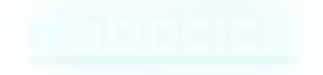
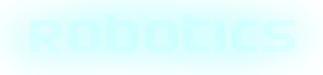
Added Header to pages1-5

Changed region(s): [[0.1238, 0.1867, 0.8359, 0.6933]]

diff --git a/index.html b/index.html
@@ -9,27 +9,38 @@
 	</head>
 	<body>
 		<section id="masthead">
-			<a href="http://maxwofford.com">
-				<img border="0" src="masthead.png" alt="Max Wofford">
+			<a href="index.html">
+				<img border="0" src="images/masthead.png" alt="Max Wofford" width="100%">
 			</a>
 			<p>
+				
 				<table width="60%">	
 					<tr>
 						<td>
-							<a href="page1.html" target="_top" onmouseover="document.sub_but.src=images\page1Over.png" onmouseout="document.sub_but."src="images/page1.png"><img src="images\page1.png" width="50%" height="12" border="0" alt="Page 1" name="sub_but"></a>
+							<a href="page1.html" >
+								<img width="50%" height="12" src=" images/page1.png " onmouseover="this.src=' images/page1Over.png '" onmouseout="this.src=' images/page1.png '" />
+							</a>
 					
 						</td>
 						<td>
-							<a href="page2.html" target="_top" onmouseover="document.sub_but.src=images\page2Over.png" onmouseout="document.sub_but."src="images/page2.png"><img src="images\page2.png" width="50%" height="12" border="0" alt="Page 2" name="sub_but"></a>
+							<a href="page2.html" >
+								<img width="50%" height="12" src=" images/page2.png " onmouseover="this.src=' images/page2Over.png '" onmouseout="this.src=' images/page2.png '" />
+							</a>
 						</td>
 						<td>
-							<a href="page1.html" target="_top" onmouseover="document.sub_but.src=images\page1Over.png" onmouseout="document.sub_but."src="images/page1.png"><img src="images\page1.png" width="50%" height="12" border="0" alt="Page 1" name="sub_but"></a>
+							<a href="page3.html" >
+								<img width="50%" height="12" src=" images/page3.png " onmouseover="this.src=' images/page3Over.png '" onmouseout="this.src=' images/page3.png '" />
+							</a>
 						</td>
 						<td>
-							<a href="page1.html" target="_top" onmouseover="document.sub_but."src="images\page1Over.png" onmouseout="document.sub_but."src="images/page1Over.png"><img src="images\page1.png" width="50%" height="12" border="0" alt="Move your mouse over me" name="sub_but"></a>	
+							<a href="page4.html" >
+								<img width="50%" height="12" src=" images/page4.png " onmouseover="this.src=' images/page4Over.png '" onmouseout="this.src=' images/page4.png '" />
+							</a>
 						</td>
 						<td>
-							<a href="page1.html" target="_top" onmouseover="document.sub_but."src="images\page1Over.png" onmouseout="document.sub_but."src="images/page1Over.png"><img src="images\page1.png" width="50%" height="12" border="0" alt="Move your mouse over me" name="sub_but"></a>	
+							<a href="page5.html" >
+								<img width="50%" height="12" src=" images/page5.png " onmouseover="this.src=' images/page5Over.png '" onmouseout="this.src=' images/page5.png '" />
+							</a>
 						</td>
 					<tr>
 				</table>
@@ -65,6 +76,7 @@
 
 				</p>
 				<p>
+					<img src="images\glyphicons_free\glyphicons\png\glyphicons_272_cake.png">
 					<a href= "http://glyphicons.com/">
 						GLYPHICONS
 					</a>

diff --git a/page2.html b/page2.html
@@ -6,6 +6,45 @@
 		</title>
 	</head>
 	<body>
+		<section id="masthead">
+			<a href="index.html">
+				<img border="0" src="images/masthead.png" alt="Max Wofford" width="100%">
+			</a>
+			<p>
+				
+				<table width="60%">	
+					<tr>
+						<td>
+							<a href="page1.html" >
+								<img width="50%" height="12" src=" images/page1.png " onmouseover="this.src=' images/page1Over.png '" onmouseout="this.src=' images/page1.png '" />
+							</a>
+					
+						</td>
+						<td>
+							<a href="page2.html" >
+								<img width="50%" height="12" src=" images/page2.png " onmouseover="this.src=' images/page2Over.png '" onmouseout="this.src=' images/page2.png '" />
+							</a>
+						</td>
+						<td>
+							<a href="page3.html" >
+								<img width="50%" height="12" src=" images/page3.png " onmouseover="this.src=' images/page3Over.png '" onmouseout="this.src=' images/page3.png '" />
+							</a>
+						</td>
+						<td>
+							<a href="page4.html" >
+								<img width="50%" height="12" src=" images/page4.png " onmouseover="this.src=' images/page4Over.png '" onmouseout="this.src=' images/page4.png '" />
+							</a>
+						</td>
+						<td>
+							<a href="page5.html" >
+								<img width="50%" height="12" src=" images/page5.png " onmouseover="this.src=' images/page5Over.png '" onmouseout="this.src=' images/page5.png '" />
+							</a>
+						</td>
+					<tr>
+				</table>
+			</p>
+			<HR WIDTH="50%" SIZE="3">
+		</section>
 
 		<h3 style="BORDER-RIGHT: #c00 1px solid; BORDER-TOP: #c00 1px solid; BORDER-LEFT: #c00 1px solid; BORDER-BOTTOM: #c00 1px solid" width="50%" class="middle">
 			Aerospace Engineering

diff --git a/page3.html b/page3.html
@@ -1,10 +1,49 @@
 <html>
 	<head>
+		<link rel="stylesheet" type="text/css" href="theme.css">
 		<title>
-		
+			Programming
 		</title>
 	</head>
 	<body >
-
+		<section id="masthead">
+			<a href="index.html">
+				<img border="0" src="images/masthead.png" alt="Max Wofford" width="100%">
+			</a>
+			<p>
+				
+				<table width="60%">	
+					<tr>
+						<td>
+							<a href="page1.html" >
+								<img width="50%" height="12" src=" images/page1.png " onmouseover="this.src=' images/page1Over.png '" onmouseout="this.src=' images/page1.png '" />
+							</a>
+					
+						</td>
+						<td>
+							<a href="page2.html" >
+								<img width="50%" height="12" src=" images/page2.png " onmouseover="this.src=' images/page2Over.png '" onmouseout="this.src=' images/page2.png '" />
+							</a>
+						</td>
+						<td>
+							<a href="page3.html" >
+								<img width="50%" height="12" src=" images/page3.png " onmouseover="this.src=' images/page3Over.png '" onmouseout="this.src=' images/page3.png '" />
+							</a>
+						</td>
+						<td>
+							<a href="page4.html" >
+								<img width="50%" height="12" src=" images/page4.png " onmouseover="this.src=' images/page4Over.png '" onmouseout="this.src=' images/page4.png '" />
+							</a>
+						</td>
+						<td>
+							<a href="page5.html" >
+								<img width="50%" height="12" src=" images/page5.png " onmouseover="this.src=' images/page5Over.png '" onmouseout="this.src=' images/page5.png '" />
+							</a>
+						</td>
+					<tr>
+				</table>
+			</p>
+			<HR WIDTH="50%" SIZE="3">
+		</section>
 	</body>
 </html>

diff --git a/page4.html b/page4.html
@@ -1,10 +1,49 @@
 <html>
 	<head>
+		<link rel="stylesheet" type="text/css" href="theme.css">
 		<title>
-		
+			Community
 		</title>
 	</head>
 	<body >
-
+		<section id="masthead">
+			<a href="index.html">
+				<img border="0" src="images/masthead.png" alt="Max Wofford" width="100%">
+			</a>
+			<p>
+				
+				<table width="60%">	
+					<tr>
+						<td>
+							<a href="page1.html" >
+								<img width="50%" height="12" src=" images/page1.png " onmouseover="this.src=' images/page1Over.png '" onmouseout="this.src=' images/page1.png '" />
+							</a>
+					
+						</td>
+						<td>
+							<a href="page2.html" >
+								<img width="50%" height="12" src=" images/page2.png " onmouseover="this.src=' images/page2Over.png '" onmouseout="this.src=' images/page2.png '" />
+							</a>
+						</td>
+						<td>
+							<a href="page3.html" >
+								<img width="50%" height="12" src=" images/page3.png " onmouseover="this.src=' images/page3Over.png '" onmouseout="this.src=' images/page3.png '" />
+							</a>
+						</td>
+						<td>
+							<a href="page4.html" >
+								<img width="50%" height="12" src=" images/page4.png " onmouseover="this.src=' images/page4Over.png '" onmouseout="this.src=' images/page4.png '" />
+							</a>
+						</td>
+						<td>
+							<a href="page5.html" >
+								<img width="50%" height="12" src=" images/page5.png " onmouseover="this.src=' images/page5Over.png '" onmouseout="this.src=' images/page5.png '" />
+							</a>
+						</td>
+					<tr>
+				</table>
+			</p>
+			<HR WIDTH="50%" SIZE="3">
+		</section>
 	</body>
 </html>

diff --git a/page1.html b/page1.html
@@ -1,10 +1,49 @@
 <html>
 	<head>
+		<link rel="stylesheet" type="text/css" href="theme.css">
 		<title>
-		
+		Robotics
 		</title>
 	</head>
 	<body >
-
+		<section id="masthead">
+			<a href="index.html">
+				<img border="0" src="images/masthead.png" alt="Max Wofford" width="100%">
+			</a>
+			<p>
+				
+				<table width="60%">	
+					<tr>
+						<td>
+							<a href="page1.html" >
+								<img width="50%" height="12" src=" images/page1.png " onmouseover="this.src=' images/page1Over.png '" onmouseout="this.src=' images/page1.png '" />
+							</a>
+					
+						</td>
+						<td>
+							<a href="page2.html" >
+								<img width="50%" height="12" src=" images/page2.png " onmouseover="this.src=' images/page2Over.png '" onmouseout="this.src=' images/page2.png '" />
+							</a>
+						</td>
+						<td>
+							<a href="page3.html" >
+								<img width="50%" height="12" src=" images/page3.png " onmouseover="this.src=' images/page3Over.png '" onmouseout="this.src=' images/page3.png '" />
+							</a>
+						</td>
+						<td>
+							<a href="page4.html" >
+								<img width="50%" height="12" src=" images/page4.png " onmouseover="this.src=' images/page4Over.png '" onmouseout="this.src=' images/page4.png '" />
+							</a>
+						</td>
+						<td>
+							<a href="page5.html" >
+								<img width="50%" height="12" src=" images/page5.png " onmouseover="this.src=' images/page5Over.png '" onmouseout="this.src=' images/page5.png '" />
+							</a>
+						</td>
+					<tr>
+				</table>
+			</p>
+			<HR WIDTH="50%" SIZE="3">
+		</section>
 	</body>
 </html>

diff --git a/page5.html b/page5.html
@@ -1,10 +1,49 @@
 <html>
 	<head>
+		<link rel="stylesheet" type="text/css" href="theme.css">
 		<title>
-		
+			Artwork
 		</title>
 	</head>
 	<body >
-
+		<section id="masthead">
+			<a href="index.html">
+				<img border="0" src="images/masthead.png" alt="Max Wofford" width="100%">
+			</a>
+			<p>
+				
+				<table width="60%">	
+					<tr>
+						<td>
+							<a href="page1.html" >
+								<img width="50%" height="12" src=" images/page1.png " onmouseover="this.src=' images/page1Over.png '" onmouseout="this.src=' images/page1.png '" />
+							</a>
+					
+						</td>
+						<td>
+							<a href="page2.html" >
+								<img width="50%" height="12" src=" images/page2.png " onmouseover="this.src=' images/page2Over.png '" onmouseout="this.src=' images/page2.png '" />
+							</a>
+						</td>
+						<td>
+							<a href="page3.html" >
+								<img width="50%" height="12" src=" images/page3.png " onmouseover="this.src=' images/page3Over.png '" onmouseout="this.src=' images/page3.png '" />
+							</a>
+						</td>
+						<td>
+							<a href="page4.html" >
+								<img width="50%" height="12" src=" images/page4.png " onmouseover="this.src=' images/page4Over.png '" onmouseout="this.src=' images/page4.png '" />
+							</a>
+						</td>
+						<td>
+							<a href="page5.html" >
+								<img width="50%" height="12" src=" images/page5.png " onmouseover="this.src=' images/page5Over.png '" onmouseout="this.src=' images/page5.png '" />
+							</a>
+						</td>
+					<tr>
+				</table>
+			</p>
+			<HR WIDTH="50%" SIZE="3">
+		</section>
 	</body>
 </html>

diff --git a/theme.css b/theme.css
@@ -20,7 +20,7 @@ table {
 }
 p
 {
-	background-color:#000fff;
+	
 }
 td
 {
